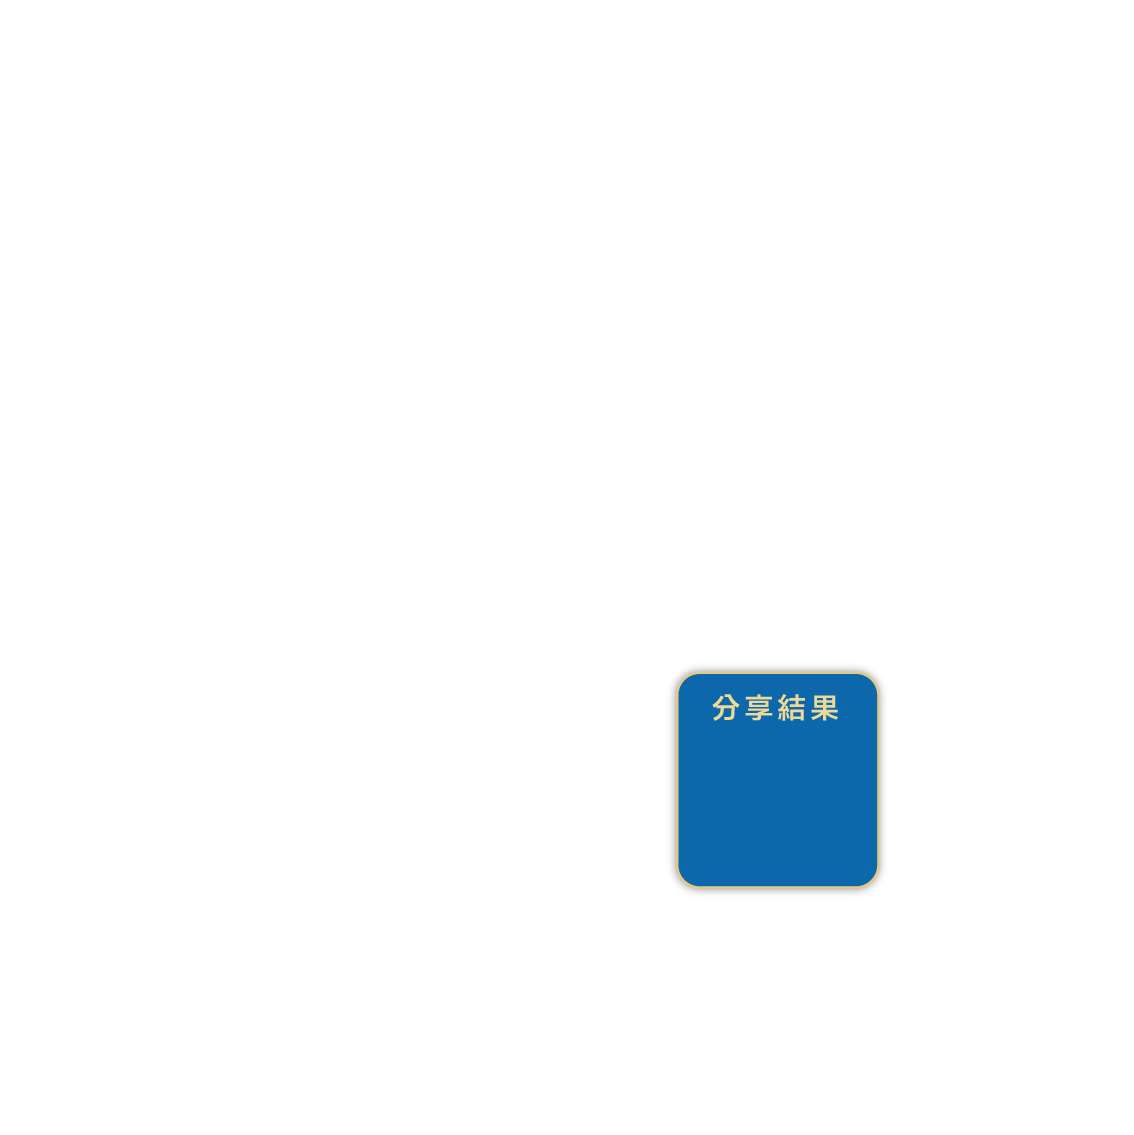
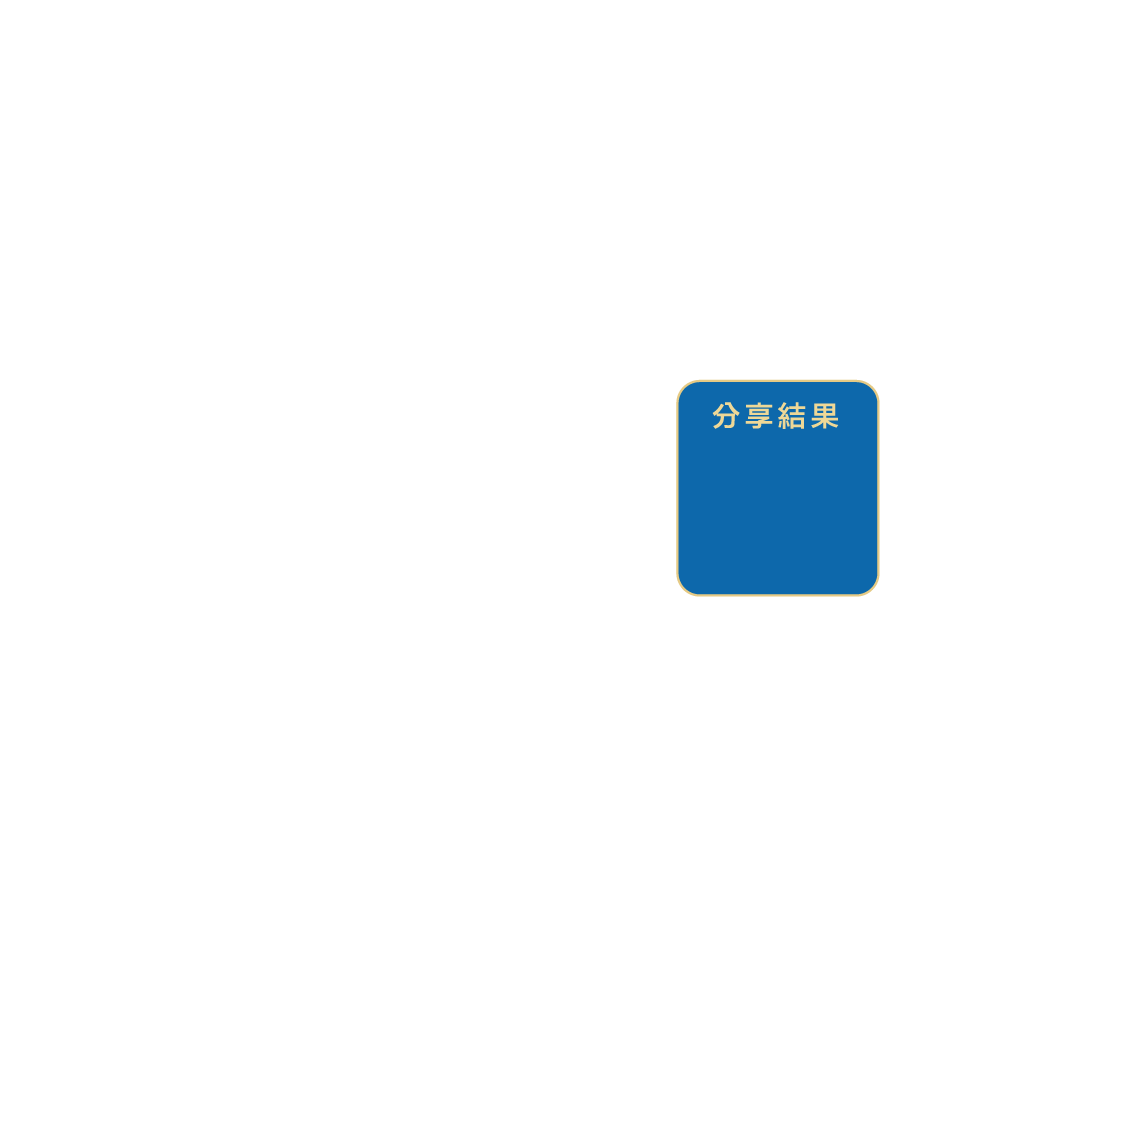
update result scene

Changed region(s): [[0.5864, 0.5864, 0.8025, 0.8025], [0.5864, 0.3086, 0.8025, 0.5247]]

diff --git a/src/PSceneResult.h b/src/PSceneResult.h
@@ -13,18 +13,23 @@ class PSceneResult:public SceneBase{
 
 	FrameTimer _timer_scan;
 	FrameTimer _timer_count;
+	FrameTimer _timer_page_disappear;
+
 	int _num_count;
 
 	ofImage _img_question[FRUIT_GROUP],_img_solution[FRUIT_GROUP];
-	ofImage _img_qrcode,_img_takeaway;
+	ofImage _img_qrcode,_img_takeaway,_img_lalamove;
 	ofImage _img_number[10];
+
+	PGlowLine _glow;
 public:
 	PSceneResult(ofApp* set_):SceneBase(set_){
-		_mlayer=5;
+		_mlayer=6;
 		_order_scene=4;
 
 		_timer_scan=FrameTimer(PParam::val()->QrcodeTime);
 		_timer_count=FrameTimer(1000);
+		_timer_page_disappear=FrameTimer(EASE_DUE,PParam::val()->CardTime*.5);
 
 		for(int i=0;i<FRUIT_GROUP;++i){
 			_img_question[i].loadImage("_img_ui/question/"+ofToString(i+1)+".png");
@@ -32,23 +37,26 @@ public:
 		}
 		_img_takeaway.loadImage("_img_ui/takeaway_result.png");
 		_img_qrcode.loadImage("_img_ui/qrcode_result.png");
+		_img_lalamove.loadImage("_img_ui/lalamove_result.png");
 		
 		for(int i=0;i<10;++i) _img_number[i].loadImage("_img_ui/result_count/"+ofToString(i)+".png");
 
 		setup();
 		_timer_in[1]=FrameTimer(EASE_DUE,PParam::val()->CardTime*.3);
 		_timer_in[2]=FrameTimer(EASE_DUE,PParam::val()->CardTime*1.5);
-		_timer_in[3]=FrameTimer(EASE_DUE,PParam::val()->CardTime*2.5);
-		_timer_in[4]=FrameTimer(EASE_DUE,PParam::val()->CardTime*2.5);
+		_timer_in[3]=FrameTimer(EASE_DUE,PParam::val()->CardTime*2.5+EASE_DUE);
+		_timer_in[4]=FrameTimer(EASE_DUE,PParam::val()->CardTime*2.5+EASE_DUE);
+		_timer_in[5]=FrameTimer(EASE_DUE,PParam::val()->CardTime*3+EASE_DUE);
 
 
 		ofAddListener(_timer_in[1].finish_event,this,&PSceneResult::onCardInFinish);
-		ofAddListener(_timer_in[2].finish_event,this,&PSceneResult::onCardInFinish);
+		ofAddListener(_timer_in[2].finish_event,this,&PSceneResult::onSolutionInFinish);
 
 		ofAddListener(_timer_in[3].finish_event,this,&PSceneResult::onTimerSceneInFinish);
 		ofAddListener(_timer_scan.finish_event,this,&PSceneResult::onTimerScanFinish);
 		ofAddListener(_timer_count.finish_event,this,&PSceneResult::onTimerCountFinish);
 		
+		_glow=PGlowLine(540,680,374,150,30);
 	}
 	void drawLayer(int i){
 
@@ -66,26 +74,35 @@ public:
 				ofPopStyle();
 				break;
 			case 1:
-				
-				_img_question[_ptr_app->_idx_user_juice].draw(0,0,WIN_HEIGHT,WIN_HEIGHT);
+				ofPushStyle();
+				ofSetColor(255,255*getLayerAlpha(i)*(1.0-_timer_page_disappear.valEaseInOut()));
+					_img_question[_ptr_app->_idx_user_juice].draw(0,146,WIN_HEIGHT,WIN_HEIGHT);
+				ofPopStyle();
                 break;
 			case 2:
-                _img_solution[_ptr_app->_idx_user_juice].draw(0,0,WIN_HEIGHT,WIN_HEIGHT);
+                ofPushStyle();
+				ofSetColor(255,255*getLayerAlpha(i)*(1.0-_timer_page_disappear.valEaseInOut()));
+					_img_solution[_ptr_app->_idx_user_juice].draw(0,146,WIN_HEIGHT,WIN_HEIGHT);
+				ofPopStyle();
                 break;
 			case 3:
                 _img_takeaway.draw(0,0,WIN_HEIGHT,WIN_HEIGHT);
                 ofPushStyle();
                 //ofSetColor(255,255*ofClamp(1.0-_timer_count.val(),0,1)*getLayerAlpha(0));
-                    _img_number[(int)ofClamp(floor(num_/10),0,9)].draw(293,797);
-					_img_number[(int)ofClamp(num_%10,0,9)].draw(314,797);
+                    _img_number[(int)ofClamp(floor(num_/10),0,9)].draw(290,520);
+					_img_number[(int)ofClamp(num_%10,0,9)].draw(312,520);
                 ofPopStyle();
                 break;
 			case 4:
 				_img_qrcode.draw(0,0,WIN_HEIGHT,WIN_HEIGHT);
 				ofPushMatrix();
-				ofTranslate(682,704);
+				ofTranslate(682,484);
 					_ptr_app->_qrcode_gen.draw(117,255*getLayerAlpha(i));
 				ofPopMatrix();
+				break;
+			case 5:
+				_img_lalamove.draw(0,0,WIN_HEIGHT,WIN_HEIGHT);
+				_glow.draw(getLayerAlpha(i));
 				break;
 		}
 
@@ -94,6 +111,9 @@ public:
 		SceneBase::update(dt_);		
 		_timer_scan.update(dt_);
 		_timer_count.update(dt_);
+
+		_timer_page_disappear.update(dt_);
+		_glow.update(dt_);
 	}
 
 	void init(){
@@ -105,6 +125,10 @@ public:
 	}
 	void onCardInFinish(int &e){
 		_ptr_app->playSound(ofApp::PSound::SRESULT);
+	}
+	void onSolutionInFinish(int &e){
+		_ptr_app->playSound(ofApp::PSound::SRESULT);
+		_timer_page_disappear.restart();
 	}
 	void onTimerSceneInFinish(int &e){
 		_timer_scan.restart();
